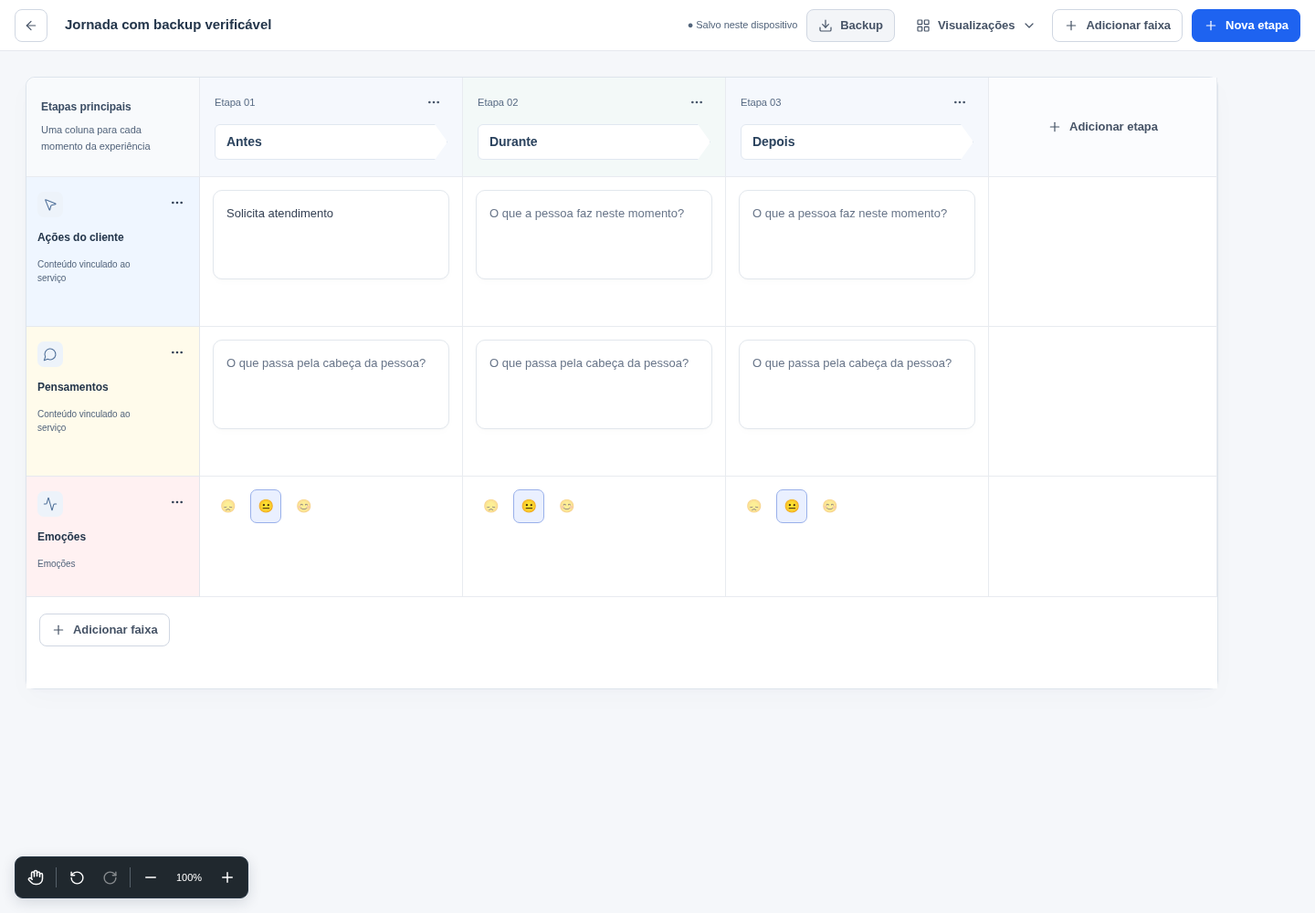
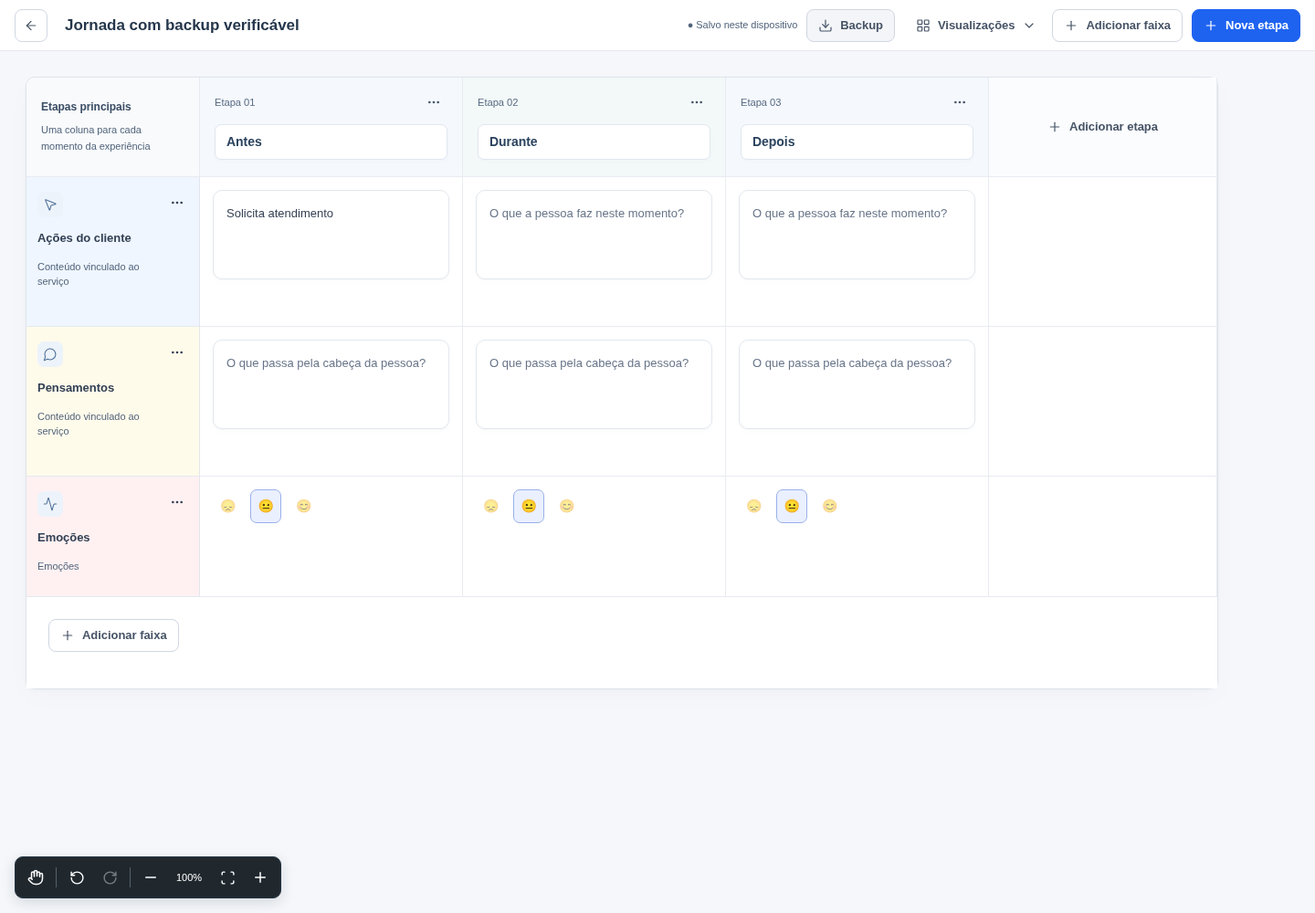
feat: redesenha o início da Jornada e adiciona ajustar à tela

diff --git a/src/views/JourneyCanvasFree.tsx b/src/views/JourneyCanvasFree.tsx
@@ -10,7 +10,7 @@ import { journeyContextItems } from '../services/journey-map-studio';
 import { cardsInCell, addCellCard, editCellCard, removeCellCard, moveJourneyCard, duplicateCellCard, formatCardText, setCellCards } from '../domain/journey-card-operations';
 import {
   ArrowLeft, ArrowRight, Check, ChevronDown, Download, GripVertical, LayoutGrid,
-  Hand, Minus, Plus, RotateCcw,
+  Hand, Minus, Plus, RotateCcw, Scan, Pencil,
   Trash2, X, Type, Image as ImageIcon, ListTree, Shapes, ListChecks,
   SeparatorHorizontal, Activity, Link2, MousePointer2, MessageCircle,
   Waypoints, Target, CircleAlert, Copy, Bold, Italic, List, ArrowUp, ArrowDown, MoreHorizontal,
@@ -227,15 +227,35 @@ export function JourneyCanvasFree({ studio, onMatrix, onCaptureContext, onBluepr
     setShowNewStage(false); setInlineStageTitle(''); setSelectedStageId(null);
     requestAnimationFrame(() => scrollRef.current?.scrollTo({ left: 0, top: 0, behavior: 'auto' }));
   };
-  const dismissIntro = () => setGraph(current => updateJourneyLayout(current, journey.id, layout => ({ ...layout, introDismissed: true })), 'Journey: continuar em branco');
+  const dismissIntro = () => {
+    setGraph(current => updateJourneyLayout(current, journey.id, layout => ({ ...layout, introDismissed: true })), 'Journey: começar pela primeira etapa');
+    openNewStage();
+  };
   const activeStages = visibleStages.length ? visibleStages : orderedStages;
-  const gridColumns = ['var(--journey-rail, 190px)', ...activeStages.map(() => `${columnWidth}px`), '250px'].join(' ');
+  const isEmptyMap = !activeStages.length && !lanes.length;
+  const showWelcome = !showNewStage && (isEmptyMap || showIntro);
+  const showMap = !showWelcome || activeStages.length > 0 || lanes.length > 0;
+  const gridColumns = ['var(--journey-rail, 190px)', ...activeStages.map(() => `${columnWidth}px`), activeStages.length ? '250px' : 'minmax(280px, 1fr)'].join(' ');
+  const fitToScreen = () => {
+    const viewport = scrollRef.current;
+    const map = viewport?.querySelector<HTMLElement>('.bo-h1706-map');
+    if (!viewport || !map) return;
+    const padding = getComputedStyle(viewport);
+    const width = viewport.clientWidth - parseFloat(padding.paddingLeft) - parseFloat(padding.paddingRight);
+    const height = viewport.clientHeight - parseFloat(padding.paddingTop) - parseFloat(padding.paddingBottom);
+    const scale = Math.max(5, Math.min(100, Math.floor(Math.min(width / map.offsetWidth, height / map.offsetHeight) * 100)));
+    setZoom(scale);
+    requestAnimationFrame(() => viewport.scrollTo({ left: 0, top: 0, behavior: 'auto' }));
+  };
   const activeStageIndex = selectedStage ? journey.stageIds.indexOf(selectedStage.id) : -1;
   const dismissMenus = () => setShowViews(false);
   const openNewStage = () => {
     setShowNewStage(true);
     setSelectedStageId(null);
-    requestAnimationFrame(() => scrollRef.current?.scrollTo({ left: scrollRef.current.scrollWidth, behavior: 'smooth' }));
+    requestAnimationFrame(() => {
+      scrollRef.current?.scrollTo({ left: scrollRef.current.scrollWidth, behavior: 'auto' });
+      scrollRef.current?.querySelector<HTMLInputElement>('#bo-journey-stage-title')?.focus({ preventScroll: true });
+    });
   };
   const createInlineStage = () => {
     if (!inlineStageTitle.trim()) return;
@@ -282,12 +302,12 @@ export function JourneyCanvasFree({ studio, onMatrix, onCaptureContext, onBluepr
       if (event.code === 'Space') { event.preventDefault(); setSpaceHeld(true); }
       if (key === 'h') { event.preventDefault(); setHandMode(true); }
       if (key === 'v' || key === 'escape') { setHandMode(false); setSpaceHeld(false); }
-      if (key === '+' || key === '=' || key === '-') { event.preventDefault(); event.stopPropagation(); setZoom(value => Math.max(60, Math.min(150, value + (key === '-' ? -10 : 10)))); }
+      if (key === '+' || key === '=' || key === '-') { event.preventDefault(); event.stopPropagation(); setZoom(value => Math.max(5, Math.min(150, value + (key === '-' ? -10 : 10)))); }
     }
   }} className="bo-h1705-journey is-expanded bo-focused-journey" data-journey-canvas="H17.0.8" data-journey-free-map="1">
     <header className="bo-h1705-topbar">
       <button type="button" className="bo-h1705-back bo-button bo-button--secondary bo-button--icon" onClick={onBack ?? closeJourney} title={onBack ? 'Todas as Jornadas' : 'Voltar ao serviço'} aria-label={onBack ? 'Todas as Jornadas' : 'Voltar ao serviço'}><ArrowLeft size={18}/><span>{onBack ? 'Jornadas' : 'Serviço'}</span></button>
-      <div className="bo-h1705-heading"><input aria-label="Nome da Jornada" value={journeyName} onChange={event => setJourneyName(event.target.value)} onBlur={saveJourneyName} onKeyDown={event => { if (event.key === 'Enter') event.currentTarget.blur(); if (event.key === 'Escape') { cancelNameEdit.current = true; event.currentTarget.blur(); } }}/></div>
+      <div className="bo-h1705-heading"><Pencil size={14} className="bo-journey-title-pencil" aria-hidden="true"/><input aria-label="Nome da Jornada" value={journeyName} onChange={event => setJourneyName(event.target.value)} onBlur={saveJourneyName} onKeyDown={event => { if (event.key === 'Enter') event.currentTarget.blur(); if (event.key === 'Escape') { cancelNameEdit.current = true; event.currentTarget.blur(); } }}/></div>
       <span className="bo-h1705-saving" aria-live="polite" title="As alterações ficam neste navegador. Exporte um backup para guardar outra cópia.">{saveStatus === 'saved' ? '● Salvo neste dispositivo' : saveStatus === 'saving' ? '◌ Salvando…' : '⚠ Erro ao salvar'}</span>
       <button type="button" className="bo-journey-backup bo-button bo-button--secondary" onClick={handleExport} aria-label="Baixar backup do projeto" title="Baixar backup com todas as Jornadas, Blueprints e quadros deste projeto"><Download size={16}/><span>Backup</span></button>
     <nav className="bo-h1705-menubar" aria-label="Ferramentas da Jornada">
@@ -323,8 +343,8 @@ export function JourneyCanvasFree({ studio, onMatrix, onCaptureContext, onBluepr
         onPointerUp={event => { if (panStart.current) { panStart.current = null; event.currentTarget.releasePointerCapture(event.pointerId); } }}
         onPointerCancel={() => { panStart.current = null; }}
         onClickCapture={event => { if (handMode || spaceHeld) { event.preventDefault(); event.stopPropagation(); } }}
-        onClick={() => { if (showViews) dismissMenus(); }} aria-label="Mapa horizontal da Jornada" data-intro-only={showIntro && !activeStages.length && !lanes.length && !showNewStage}>
-        {(!showIntro || activeStages.length > 0 || lanes.length > 0 || showNewStage) && <div className="bo-h1706-map" style={{ zoom: zoom / 100, gridTemplateColumns: gridColumns }} data-configurable-lanes="1">
+        onClick={() => { if (showViews) dismissMenus(); }} aria-label="Mapa horizontal da Jornada" data-intro-only={showWelcome && isEmptyMap}>
+        {showMap && <div className={`bo-h1706-map${isEmptyMap ? ' is-first-stage' : ''}`} style={{ zoom: zoom / 100, gridTemplateColumns: gridColumns }} data-configurable-lanes="1">
           <div className="bo-h1706-corner"><b>Etapas principais</b><small>Uma coluna para cada momento da experiência</small></div>
           {activeStages.map((stage, index) => <div key={stage.id} className={`bo-h1706-stage${stageMenuId === stage.id ? ' is-menu-open' : ''}`} data-journey-stage-id={stage.id} onDragOver={(event) => event.preventDefault()} onDrop={(event) => handleStageDrop(event, stage.id)}>
             <div className="bo-h1706-stage-tools"><small>Etapa {String(index + 1).padStart(2, '0')}</small><button className="bo-simple-stage-grip" draggable onDragStart={(event) => handleStageDragStart(event, stage.id)} title="Arrastar etapa" aria-label={`Arrastar ${stage.title}`}><GripVertical size={14}/></button><button type="button" aria-label={`Ações da etapa ${stage.title}`} title="Ações da etapa" aria-expanded={stageMenuId === stage.id} onClick={() => { setStageMenuId(stageMenuId === stage.id ? null : stage.id); setLaneMenuId(null); }}><MoreHorizontal size={16} aria-hidden="true"/></button></div>
@@ -336,7 +356,7 @@ export function JourneyCanvasFree({ studio, onMatrix, onCaptureContext, onBluepr
               <button type="button" className="bo-j2-danger" onClick={() => { setStageMenuId(null); removeStageSafely(stage.id); }} aria-label={`Remover ${stage.title}`}>Excluir etapa…</button>
             </div>}
           </div>)}
-          <div className="bo-h1706-new-stage">{showNewStage || !orderedStages.length ? <div className="bo-h1705-stage-draft"><label>Nova etapa</label><input autoFocus value={inlineStageTitle} onChange={(event) => setInlineStageTitle(event.target.value)} onKeyDown={(event) => { if (event.key === 'Enter') createInlineStage(); if (event.key === 'Escape') setShowNewStage(false); }} placeholder="Nome da etapa"/><button className="bo-h1705-primary bo-button bo-button--primary" disabled={!inlineStageTitle.trim()} onClick={createInlineStage}>Criar etapa</button></div> : <button type="button" className="bo-button bo-button--ghost" onClick={openNewStage}><Plus size={17}/> Adicionar etapa</button>}</div>
+          <div className="bo-h1706-new-stage">{showNewStage || !orderedStages.length ? <div className="bo-h1705-stage-draft"><label htmlFor="bo-journey-stage-title">{activeStages.length ? 'Nova etapa' : 'Sua primeira etapa'}</label><small>Um momento da experiência do cliente.</small><input id="bo-journey-stage-title" autoFocus value={inlineStageTitle} onChange={(event) => setInlineStageTitle(event.target.value)} onKeyDown={(event) => { if (event.key === 'Enter') createInlineStage(); if (event.key === 'Escape') setShowNewStage(false); }} placeholder="Nome da etapa" aria-describedby="bo-journey-stage-example"/><small id="bo-journey-stage-example">Ex.: Descobrir o serviço. Pressione Enter para criar.</small><button type="button" className="bo-h1705-primary bo-button bo-button--primary" disabled={!inlineStageTitle.trim()} onClick={createInlineStage}>Criar etapa</button></div> : <button type="button" className="bo-button bo-button--ghost" onClick={openNewStage}><Plus size={17}/> Adicionar etapa</button>}</div>
           {lanes.filter((lane) => !lane.hidden).map((lane) => <div key={lane.id} data-lane-id={lane.id} className={`bo-h1706-lane-row${selectedLaneId === lane.id ? ' is-selected' : ''}`} style={{ gridColumn: `1 / span ${activeStages.length + 2}`, gridTemplateColumns: 'subgrid', '--lane-height': `${lane.height ?? (lane.type === 'divider' ? 64 : 164)}px`, '--lane-color': palette[lane.tone ?? 'neutral']?.color ?? palette.neutral.color } as CSSProperties}>
             <div className="bo-h1706-lane-name">
               {renderLaneIcon(lane)}
@@ -363,14 +383,37 @@ export function JourneyCanvasFree({ studio, onMatrix, onCaptureContext, onBluepr
             <div className="bo-h1706-cell bo-h1706-empty"/>
           </div>)}
           <div className="bo-h1706-add-lane" style={{ gridColumn: `1 / span ${activeStages.length + 2}` }}>
-            {!lanes.length && !showIntro && <div className="bo-j2-empty"><strong>Seu mapa pode ter as faixas que você precisar</strong><p>Comece com texto livre ou traga informações já vinculadas ao serviço.</p><div><button type="button" className="bo-button bo-button--secondary" onClick={() => addLane('text')}>Adicionar texto</button><button type="button" className="bo-button bo-button--secondary" onClick={() => addLane('text', 'customerAction')}>Ações do cliente</button><button type="button" className="bo-button bo-button--secondary" onClick={() => addLane('emotion')}>Emoções</button></div></div>}
+            {!lanes.length && !showWelcome && <section className="bo-j2-empty bo-journey-lane-suggestions" aria-label="Faixas sugeridas">
+              <small>CONTE A EXPERIÊNCIA</small><h2>O que acontece em cada etapa?</h2>
+              <p>Escolha uma faixa para começar. Você pode adicionar outras depois.</p>
+              <div className="bo-journey-lane-choices">
+                <button type="button" aria-label="Ações do cliente" onClick={() => addLane('text', 'customerAction')}><MousePointer2 size={20} aria-hidden="true"/><strong>Ações do cliente</strong><span>O que a pessoa faz ou tenta fazer.</span><Plus size={16} aria-hidden="true"/></button>
+                <button type="button" aria-label="Pensamentos" onClick={() => addLane('text', 'thoughts')}><MessageCircle size={20} aria-hidden="true"/><strong>Pensamentos</strong><span>O que ela pensa ou espera.</span><Plus size={16} aria-hidden="true"/></button>
+                <button type="button" aria-label="Emoções" onClick={() => addLane('emotion')}><Activity size={20} aria-hidden="true"/><strong>Emoções</strong><span>Como ela se sente nesse momento.</span><Plus size={16} aria-hidden="true"/></button>
+              </div>
+            </section>}
             <button type="button" className="bo-h1706-add-button bo-button bo-button--secondary" onClick={event => { laneMenuTrigger.current = event.currentTarget; setShowLaneMenu(!showLaneMenu); setShowViews(false); }} aria-expanded={showLaneMenu}><Plus size={16}/> Adicionar faixa</button>
             {lanes.some(lane => lane.hidden) && <div className="bo-h1706-hidden"><small>Faixas ocultas</small>{lanes.filter(lane => lane.hidden).map(lane => <button type="button" key={lane.id} onClick={() => changeLane(lane.id, { hidden: false })}>Mostrar {lane.label}</button>)}</div>}
           </div>
         </div>}
-        {showIntro && !showNewStage && <section className="bo-journey-welcome" aria-label="Começar a mapear">
-          <div className="bo-journey-preview" aria-hidden="true">{['Antes', 'Durante', 'Depois'].map(label => <div key={label}><strong>{label}</strong><i/><i/></div>)}<span className="bo-journey-preview-label">Exemplo de estrutura · tudo pode ser editado</span></div>
-          <div className="bo-journey-welcome-copy"><small>UM BOM COMEÇO</small><h2>Dê forma à experiência.</h2><p>Cada etapa é um momento da história. Nas faixas, reúna o que a pessoa faz, pensa e sente.</p><p>{orderedStages.length ? 'Adicione as faixas essenciais. Suas etapas e os conteúdos existentes são mantidos.' : 'Comece com Antes, Durante e Depois, e três faixas para entender a experiência.'}</p><div className="bo-journey-welcome-actions"><button type="button" onClick={startWithStructure}>{orderedStages.length ? 'Adicionar faixas essenciais' : 'Usar estrutura inicial'}<ArrowRight size={14} aria-hidden="true"/></button><button type="button" onClick={dismissIntro}>Continuar em branco</button></div></div>
+        {showWelcome && <section className="bo-journey-welcome bo-journey-start" aria-label="Começar a mapear">
+          <div className="bo-journey-start-heading">
+            <span className="bo-journey-start-kicker"><Waypoints size={16} aria-hidden="true"/> JORNADA DO CLIENTE</span>
+            <h2>{activeStages.length ? 'Dê forma à experiência.' : 'Comece pela primeira etapa da experiência'}</h2>
+            <p>{activeStages.length ? 'Suas etapas estão prontas. Adicione as faixas para reunir o que a pessoa faz, pensa e sente.' : 'Uma etapa é um momento da história. Depois, reúna o que a pessoa faz, pensa e sente em cada um deles.'}</p>
+            <div className="bo-journey-start-actions">
+              <button type="button" className="bo-button bo-button--primary" onClick={dismissIntro}><Plus size={16}/>{activeStages.length ? 'Adicionar etapa' : 'Criar primeira etapa'}</button>
+              <button type="button" className="bo-button bo-button--secondary" onClick={startWithStructure}><LayoutGrid size={16}/>{activeStages.length ? 'Adicionar faixas essenciais' : 'Usar estrutura inicial'}</button>
+            </div>
+          </div>
+          <div className="bo-journey-start-preview" role="img" aria-label="Prévia de estrutura com Antes, Durante e Depois, e faixas de ações do cliente, pensamentos e emoções. O conteúdo será preenchido por você.">
+            <div className="bo-journey-start-preview-grid" aria-hidden="true">
+              <div className="bo-journey-start-preview-corner">Etapas da experiência</div>
+              {['Antes', 'Durante', 'Depois'].map((label, index) => <div className="bo-journey-start-preview-stage" key={label}><small>ETAPA 0{index + 1}</small><strong>{label}<ArrowRight size={14}/></strong></div>)}
+              {[{ label: 'Ações do cliente', icon: MousePointer2, tone: 'blue' }, { label: 'Pensamentos', icon: MessageCircle, tone: 'amber' }, { label: 'Emoções', icon: Activity, tone: 'rose' }].map(({ label, icon: Icon, tone }) => <div className={`bo-journey-start-preview-row is-${tone}`} key={label}><div><Icon size={17}/><span>{label}</span></div>{[0, 1, 2].map(index => <div key={index}><span className="bo-journey-preview-placeholder"/></div>)}</div>)}
+            </div>
+          </div>
+          <p className="bo-journey-start-caption"><LayoutGrid size={14} aria-hidden="true"/>Prévia da estrutura inicial · etapas e faixas editáveis · você preenche o conteúdo</p>
         </section>}
       </main>
       {selectedLane && <aside className="bo-h1705-inspector bo-j2-lane-inspector" aria-label={`Propriedades da faixa ${selectedLane.label}`}>
@@ -409,8 +452,9 @@ export function JourneyCanvasFree({ studio, onMatrix, onCaptureContext, onBluepr
         <button type="button" onClick={undo} disabled={!canUndo} title="Desfazer · Ctrl/Cmd Z" aria-label="Desfazer"><RotateCcw size={17}/></button>
         <button type="button" onClick={redo} disabled={!canRedo} title="Refazer · Ctrl/Cmd Shift Z" aria-label="Refazer"><RotateCcw size={17} style={{ transform: 'scaleX(-1)' }}/></button>
         <span className="bo-editor-dock-separator" aria-hidden="true"/>
-        <button type="button" title="Diminuir zoom" aria-label="Diminuir zoom" disabled={zoom <= 60} onClick={() => setZoom(value => Math.max(60, value - 10))}><Minus size={18}/></button>
+        <button type="button" title="Diminuir zoom" aria-label="Diminuir zoom" disabled={zoom <= 5} onClick={() => setZoom(value => Math.max(5, value - 10))}><Minus size={18}/></button>
         <button type="button" className="bo-editor-zoom-value" title="Restaurar zoom para 100%" aria-label={`Zoom ${zoom}%. Restaurar para 100%`} onClick={() => setZoom(100)}>{zoom}%</button>
+        <button type="button" title="Ajustar à tela" aria-label="Ajustar à tela" disabled={!showMap} onClick={fitToScreen}><Scan size={17}/></button>
         <button type="button" title="Aumentar zoom" aria-label="Aumentar zoom" disabled={zoom >= 150} onClick={() => setZoom(value => Math.min(150, value + 10))}><Plus size={18}/></button>
       </div>
     </footer>

diff --git a/src/runtime/entry-journey-refresh.css b/src/runtime/entry-journey-refresh.css
@@ -61,23 +61,87 @@ body.bo1179-auth-visible .bo-auth-local{margin-top:18px}
 .bo-focused-journey .bo-h1709-add-card[data-empty="true"]:hover{border-color:#8ba9ce!important;background:#f5f8fc!important}
 .bo-focused-journey .bo-h1706-new-stage{background:#fbfcfe;display:flex;align-items:center;justify-content:center}
 .bo-focused-journey .bo-h1706-new-stage>button{padding:12px;color:#526b8c}
-.bo-journey-welcome{width:min(100%,1000px);box-sizing:border-box;margin:42px auto 12px;display:grid;grid-template-columns:minmax(240px,340px) minmax(0,1fr);align-items:center;gap:38px;color:#2c415c}
-.bo-journey-welcome-copy>small{font-size:10px;font-weight:650;letter-spacing:.09em;color:#4f7099}
-.bo-journey-welcome h2{font-size:25px;line-height:1.25;letter-spacing:-.025em;font-weight:600;margin:8px 0 12px}
-.bo-journey-welcome p{max-width:490px;font-size:13px;line-height:1.8;color:#5b6d84;margin:0 0 14px}
-.bo-journey-welcome-actions{display:flex;align-items:center;flex-wrap:wrap;gap:8px;margin-top:20px}
-.bo-journey-welcome-actions>button{display:inline-flex;align-items:center;gap:8px;min-height:38px;padding:9px 13px;border-radius:7px;border:1px solid #ced8e4;background:#fff;color:#45617f;font-size:12px}
-.bo-journey-welcome-actions>button:first-child{background:#315ee8;border-color:#315ee8;color:#fff;box-shadow:0 2px 4px #214bc413}
-.bo-journey-preview{position:relative;display:grid;grid-template-columns:repeat(3,1fr);gap:9px;padding:28px 18px 24px;background:#eaf0f7;border:1px solid #e0e7f0;border-radius:13px;transform:rotate(-2deg);box-shadow:0 10px 28px #354f6c0b}
-.bo-journey-preview>div{display:grid;gap:9px;align-content:start}
-.bo-journey-preview strong{font-size:10px;font-weight:600;padding:9px 8px;color:#4b6381;background:#fff;border-radius:4px;clip-path:polygon(0 0,88% 0,100% 50%,88% 100%,0 100%)}
-.bo-journey-preview i{display:block;height:51px;border-radius:5px;background:#d4e2f5;border:1px solid #c7d8ed;box-shadow:0 2px 3px #46628408}
-.bo-journey-preview i:nth-child(3){height:37px;background:#f5dfbd;border-color:#edd2aa}
-.bo-journey-preview>div:nth-child(2){transform:translateY(8px)}
-.bo-journey-preview>div:nth-child(3) i{background:#cfe6df;border-color:#bfddd3}
-.bo-journey-preview-label{grid-column:1/-1;font-size:10px;color:#526984;letter-spacing:.03em;margin-top:8px}
-@media(max-width:760px){.bo-focused-journey .bo-h1705-scroll{padding:16px 14px 100px}.bo-journey-welcome{grid-template-columns:1fr;gap:24px;margin-top:32px;max-width:520px}.bo-journey-preview{width:260px;max-width:100%;margin:0 auto}.bo-journey-welcome h2{font-size:22px}}
+/* A visible starting point, including previously dismissed empty maps. */
+.bo-focused-journey .bo-h1705-scroll[data-intro-only="true"]{display:block}
+.bo-focused-journey .bo-h1705-heading{position:relative}
+.bo-focused-journey .bo-h1705-heading>input{font-size:17px;padding-right:26px}
+.bo-journey-title-pencil{position:absolute;right:6px;top:50%;transform:translateY(-50%);color:#64748b;opacity:0;pointer-events:none}
+.bo-h1705-heading:hover .bo-journey-title-pencil,.bo-h1705-heading:focus-within .bo-journey-title-pencil{opacity:1}
+.bo-journey-start{width:min(100%,1040px);margin:28px auto 0;padding:36px;border:1px solid #dce4ee;border-radius:16px;background:#fff;color:#24364d;box-shadow:0 8px 32px #1b355008}
+.bo-journey-start-kicker{display:flex;align-items:center;gap:8px;font-size:11px;font-weight:700;letter-spacing:.08em;color:#174fc0}
+.bo-journey-start h2{font-size:28px;line-height:1.25;font-weight:650;letter-spacing:-.025em;max-width:640px;margin:14px 0 12px}
+.bo-journey-start-heading>p{font-size:14px;line-height:1.7;color:#52647b;max-width:680px;margin:0}
+.bo-journey-start-actions{display:flex;flex-wrap:wrap;gap:12px;margin:24px 0 30px}
+.bo-journey-start-preview{border:1px solid #dce4ee;border-radius:10px;overflow:hidden;background:#fff}
+.bo-journey-start-preview-grid{display:grid;grid-template-columns:160px repeat(3,minmax(0,1fr))}
+.bo-journey-start-preview-corner{display:flex;align-items:center;padding:16px;background:#f8fafc;color:#475569;font-size:12px;font-weight:600}
+.bo-journey-start-preview-stage{padding:14px 16px;border-left:1px solid #e3e9f1;background:#f5f8ff}
+.bo-journey-start-preview-stage>small{display:block;color:#52647b;font-size:10px;letter-spacing:.06em;margin-bottom:8px}
+.bo-journey-start-preview-stage>strong{display:flex;justify-content:space-between;align-items:center;gap:4px;font-size:13px;font-weight:600;color:#26476d}
+.bo-journey-start-preview-row{display:grid;grid-template-columns:subgrid;grid-column:1/-1}
+.bo-journey-start-preview-row>div{min-height:70px;padding:14px 16px;border-top:1px solid #e3e9f1;border-left:1px solid #e3e9f1;display:flex;align-items:center}
+.bo-journey-start-preview-row>div:first-child{gap:8px;border-left:0;font-size:12px;color:#334155;font-weight:550}
+.bo-journey-start-preview-row.is-blue>div:first-child{background:#eff6ff}
+.bo-journey-start-preview-row.is-amber>div:first-child{background:#fffbeb}
+.bo-journey-start-preview-row.is-rose>div:first-child{background:#fff1f2}
+.bo-journey-start-preview-row svg{flex:none}
+.bo-journey-preview-placeholder{display:block;width:100%;height:36px;border:1px dashed #d2dce8;border-radius:6px;background:#fbfcfe}
+.bo-journey-start-caption{display:flex;align-items:center;gap:7px;font-size:12px;line-height:1.6;color:#52647b;margin:14px 0 0}
+.bo-journey-start-caption svg{flex:none}
+.bo-focused-journey .bo-h1706-map.is-first-stage{width:min(980px,calc(100dvw - 56px))}
+.bo-focused-journey .is-first-stage .bo-h1706-new-stage{height:auto;min-height:220px;padding:24px}
+.bo-focused-journey .bo-h1706-map:has(.bo-h1705-stage-draft)>:is(.bo-h1706-corner,.bo-h1706-stage,.bo-h1706-new-stage){height:auto}
+.bo-focused-journey .bo-h1705-stage-draft{width:min(100%,380px);display:grid;gap:10px;padding:18px;border:1px solid #dce4ee;border-radius:10px;background:#fff;box-shadow:none}
+.bo-focused-journey .bo-h1705-stage-draft label{font-size:14px;font-weight:650;color:#24364d}
+.bo-focused-journey .bo-h1705-stage-draft small{font-size:12px;line-height:1.5;color:#52647b}
+.bo-focused-journey .bo-h1705-stage-draft input{width:100%;min-width:0;min-height:40px;padding:10px;font-size:14px;border:1px solid #cbd5e1;border-radius:7px}
+.bo-focused-journey .bo-h1706-add-lane{padding:24px}
+.bo-journey-lane-suggestions{max-width:900px;padding:0 0 20px}
+.bo-journey-lane-suggestions>small{font-size:10px;letter-spacing:.08em;font-weight:700;color:#174fc0}
+.bo-journey-lane-suggestions>h2{font-size:18px;line-height:1.4;margin:8px 0;color:#24364d;font-weight:650}
+.bo-journey-lane-suggestions>p{font-size:13px;line-height:1.6;color:#52647b;margin:0 0 18px}
+.bo-focused-journey .bo-journey-lane-choices{display:grid;grid-template-columns:repeat(3,minmax(0,1fr));gap:12px}
+.bo-focused-journey .bo-journey-lane-choices>button{display:grid;grid-template-columns:24px 1fr 16px;align-items:center;gap:8px;min-height:100px;text-align:left;padding:16px;border:1px solid #dce4ee;border-radius:10px;background:#fff;color:#334155}
+.bo-focused-journey .bo-journey-lane-choices>button>strong{font-size:13px;font-weight:650}
+.bo-focused-journey .bo-journey-lane-choices>button>span{grid-column:2/4;font-size:12px;line-height:1.5;color:#52647b}
+.bo-focused-journey .bo-journey-lane-choices>button>svg:last-child{grid-column:3;grid-row:1}
+.bo-focused-journey .bo-journey-lane-choices>button:hover{border-color:#a7c3ef;background:#f5f8ff}
+.bo-focused-journey .bo-h1706-stage>input{clip-path:none;font-size:14px;border-radius:7px}
+.bo-focused-journey .bo-h1706-lane-name>input{font-size:13px;color:#334155;font-weight:650}
+.bo-focused-journey .bo-h1706-lane-name>small{font-size:11px}
+.bo-focused-journey .bo-h1705-zoom>button:disabled{opacity:.4;cursor:not-allowed}
+@media(max-width:760px){
+ .bo-focused-journey .bo-h1705-scroll{padding:18px 14px 100px}
+ .bo-journey-start{margin-top:6px;padding:24px}
+ .bo-journey-start h2{font-size:24px}
+ .bo-journey-start-preview-grid{grid-template-columns:120px repeat(3,minmax(0,1fr))}
+ .bo-journey-start-preview-stage,.bo-journey-start-preview-row>div{padding:12px 8px}
+ .bo-journey-start-preview-row>div:first-child{font-size:11px;gap:5px}
+ .bo-focused-journey .bo-journey-lane-choices{grid-template-columns:1fr}
+ .bo-focused-journey .bo-journey-lane-choices>button{min-height:84px}
+}
+@media(max-width:530px){
+ .bo-focused-journey .bo-h1705-heading>input{font-size:14px;padding-right:8px}
+ .bo-journey-title-pencil{display:none}
+ .bo-journey-start{padding:20px 16px;border-radius:12px}
+ .bo-journey-start h2{font-size:23px}
+ .bo-journey-start-heading>p{font-size:13px}
+ .bo-journey-start-actions{gap:8px;margin:20px 0}
+ .bo-journey-start-actions>button{width:100%;min-height:42px!important}
+ .bo-journey-start-preview-grid{grid-template-columns:88px repeat(3,minmax(0,1fr))}
+ .bo-journey-start-preview-corner{padding:8px;font-size:10px}
+ .bo-journey-start-preview-stage>small{font-size:9px;letter-spacing:0}
+ .bo-journey-start-preview-stage>strong{font-size:11px}
+ .bo-journey-start-preview-stage svg{display:none}
+ .bo-journey-start-preview-row>div{min-height:52px;padding:8px 6px}
+ .bo-journey-start-preview-row>div:first-child{font-size:10px;flex-direction:column;align-items:flex-start;gap:4px}
+ .bo-journey-preview-placeholder{height:28px}
+ .bo-journey-start-caption{font-size:11px;align-items:flex-start}
+ .bo-focused-journey .bo-h1706-map.is-first-stage{width:calc(100dvw - 28px);grid-template-columns:minmax(0,1fr)!important}
+ .bo-focused-journey .is-first-stage>.bo-h1706-corner{display:none}
+ .bo-focused-journey .is-first-stage>.bo-h1706-new-stage{min-height:0;padding:20px}
+ .bo-focused-journey .is-first-stage>.bo-h1706-add-lane{grid-column:1/-1!important;padding:20px}
+ .bo-focused-journey .bo-h1705-zoom{gap:1px;padding:4px}
+ .bo-focused-journey .bo-h1705-zoom>button{width:30px;min-width:30px;height:34px}
+}
 @media(prefers-reduced-motion:reduce){.bo-focused-journey .bo-h1709-add-card{transition:none}}
-
-.bo-focused-journey .bo-h1705-scroll[data-intro-only="true"]{display:grid;align-content:center}
-.bo-focused-journey .bo-h1705-scroll[data-intro-only="true"]>.bo-journey-welcome{margin-top:0;margin-bottom:0}

diff --git a/scripts/entry-journey-browser.py b/scripts/entry-journey-browser.py
@@ -15,7 +15,8 @@ def journey(page):
 def audit(page,selector,name):
  if not os.environ.get('AXE_PATH'):return
  # Audit the settled surface; entry/card fades temporarily blend text colors.
- page.evaluate("async selector => {const root=document.querySelector(selector);await Promise.allSettled(root.getAnimations({subtree:true}).filter(a=>Number.isFinite(a.effect.getComputedTiming().endTime)).map(a=>a.finished));}",selector)
+ page.emulate_media(reduced_motion='reduce')
+ page.evaluate("async selector => {const root=document.querySelector(selector);await Promise.race([Promise.allSettled(root.getAnimations({subtree:true}).filter(a=>Number.isFinite(a.effect.getComputedTiming().endTime)).map(a=>a.finished)),new Promise(resolve=>setTimeout(resolve,1000))]);}",selector)
  page.add_script_tag(path=os.environ['AXE_PATH'])
  data=page.evaluate("async selector => (await axe.run({include:[[selector]]},{runOnly:{type:'tag',values:['wcag2a','wcag2aa','wcag21aa']}})).violations.map(v=>({id:v.id,nodes:v.nodes.map(n=>({target:n.target,summary:n.failureSummary}))}))",selector)
  (OUT/(name+'-accessibility.json')).write_text(json.dumps(data,ensure_ascii=False,indent=2))
@@ -94,11 +95,63 @@ def small(page):
   page.locator('.bo-h724-journey-pane').get_by_role('button',name='Criar Jornada',exact=True).click();page.get_by_role('button',name=re.compile(r'^Em branco')).click()
   welcome=page.get_by_role('region',name='Começar a mapear');expect(welcome).to_be_visible()
   check('The Journey introduction fits a phone',welcome.bounding_box()['x']>=0 and welcome.bounding_box()['x']+welcome.bounding_box()['width']<=391)
-  page.get_by_role('button',name='Continuar em branco',exact=True).click()
+  page.get_by_role('button',name='Criar primeira etapa',exact=True).click()
   check('Continuing in blank mode creates no stages or lanes',not journey(page)['stageIds'] and not journey(page).get('mapLayout',{}).get('lanes'))
   expect(page.get_by_placeholder('Nome da etapa',exact=True)).to_be_visible()
   page.reload(wait_until='networkidle')
   check('Choosing blank mode remains saved after reload',journey(page)['mapLayout']['introDismissed'])
+
+def starting_map(page):
+ page.emulate_media(reduced_motion='reduce')
+ page.goto(URL,wait_until='networkidle')
+ page.get_by_role('button',name='Abrir workspace local sem conta',exact=True).click()
+ page.get_by_role('button',name='Novo projeto',exact=True).click()
+ page.get_by_label('Nome do projeto',exact=True).fill('Novo início da Jornada')
+ page.get_by_label('Serviço principal',exact=True).fill('Atendimento ao cliente')
+ page.get_by_role('button',name='Criar projeto',exact=True).click()
+ page.locator('.bo-h724-journey-pane').get_by_role('button',name='Criar Jornada',exact=True).click()
+ page.get_by_role('button',name=re.compile(r'^Em branco')).click()
+ width=page.viewport_size['width']
+ welcome=page.get_by_role('region',name='Começar a mapear')
+ expect(welcome).to_be_visible()
+ check(f'{width}: início oferece duas decisões e prévia sem preencher dados',welcome.get_by_role('button').count()==2 and not journey(page)['stageIds'] and not journey(page).get('mapLayout',{}).get('lanes'))
+ check(f'{width}: início cabe na largura disponível',welcome.bounding_box()['x']>=0 and welcome.bounding_box()['x']+welcome.bounding_box()['width']<=width)
+ check(f'{width}: ajustar à tela aguarda um mapa real',page.get_by_role('button',name='Ajustar à tela',exact=True).is_disabled())
+ audit(page,'.bo-focused-journey',f'novo-inicio-{width}')
+ page.screenshot(path=str(OUT/f'novo-inicio-{width}.png'),animations='disabled')
+ page.get_by_role('button',name='Criar primeira etapa',exact=True).click()
+ field=page.get_by_placeholder('Nome da etapa',exact=True)
+ expect(field).to_be_focused()
+ check(f'{width}: primeira etapa começa com foco e impede título vazio',page.get_by_role('button',name='Criar etapa',exact=True).is_disabled())
+ page.keyboard.press('Escape')
+ expect(welcome).to_be_visible()
+ page.get_by_role('button',name='Todas as Jornadas',exact=True).click()
+ page.get_by_role('button',name='Abrir Jornada',exact=True).click()
+ expect(welcome).to_be_visible()
+ check(f'{width}: mapa vazio dispensado continua oferecendo um ponto de partida',journey(page)['mapLayout']['introDismissed'] and not journey(page)['stageIds'])
+ page.get_by_role('button',name='Criar primeira etapa',exact=True).click()
+ field.fill('Descobrir o serviço');field.press('Enter')
+ expect(page.get_by_role('textbox',name='Nome da etapa 1',exact=True)).to_have_value('Descobrir o serviço')
+ suggestions=page.get_by_role('region',name='Faixas sugeridas')
+ expect(suggestions).to_be_visible()
+ check(f'{width}: faixas sugeridas têm nomes e explicações',all(suggestions.get_by_role('button',name=name,exact=True).is_visible() for name in ['Ações do cliente','Pensamentos','Emoções']))
+ audit(page,'.bo-focused-journey',f'primeira-etapa-{width}')
+ page.screenshot(path=str(OUT/f'primeira-etapa-{width}.png'),animations='disabled')
+ suggestions.get_by_role('button',name='Pensamentos',exact=True).click()
+ lane=journey(page)['mapLayout']['lanes'][0]
+ check(f'{width}: sugestão cria faixa com vínculo correto',lane['binding']=='thoughts' and lane['label']=='Pensamentos')
+ page.get_by_label('Pensamentos em Descobrir o serviço',exact=True).fill('Será que resolve meu problema?')
+ first_stage=journey(page)['stageIds'][0]
+ for label in ['Solicitar atendimento','Receber ajuda','Avaliar solução','Retornar']:
+  page.locator('.bo-h1705-top-actions').get_by_role('button',name='Nova etapa',exact=True).click()
+  field.fill(label);field.press('Enter')
+ before=json.dumps({'journey':journey(page),'stages':graph(page)['stages']},sort_keys=True)
+ page.get_by_role('button',name='Ajustar à tela',exact=True).click()
+ page.wait_for_function("""() => {const v=document.querySelector('.bo-h1705-scroll'),m=v.querySelector('.bo-h1706-map'),r=m.getBoundingClientRect(),b=v.getBoundingClientRect(),s=getComputedStyle(v);return r.left>=b.left && r.top>=b.top && r.right<=b.right-parseFloat(s.paddingRight)+1 && r.bottom<=b.bottom-parseFloat(s.paddingBottom)+1;}""")
+ check(f'{width}: ajustar à tela enquadra as duas dimensões sem alterar conteúdo',before==json.dumps({'journey':journey(page),'stages':graph(page)['stages']},sort_keys=True))
+ page.get_by_role('button',name=re.compile(r'^Zoom .*Restaurar')).click()
+ expect(page.get_by_role('button',name='Zoom 100%. Restaurar para 100%',exact=True)).to_be_visible()
+ check(f'{width}: conteúdo permanece editável depois de restaurar zoom',graph(page)['stages'][first_stage]['thoughts']=='Será que resolve meu problema?')
 
 class Quiet(SimpleHTTPRequestHandler):
  def log_message(self,*args):pass
@@ -108,7 +161,7 @@ if not URL:
 try:
  with sync_playwright() as p:
   browser=p.chromium.launch(headless=True,executable_path=os.environ.get('CHROMIUM_PATH') or shutil.which('chromium'),args=['--no-sandbox','--disable-dev-shm-usage'])
-  for name,flow,w,h in [('desktop',entry,1440,1000),('custom',custom,1440,1000),('tablet',small,820,1180),('mobile',small,390,844)]:
+  for name,flow,w,h in [('desktop',entry,1440,1000),('custom',custom,1440,1000),('tablet',small,820,1180),('mobile',small,390,844),('inicio-desktop',starting_map,1440,1000),('inicio-tablet',starting_map,834,1000),('inicio-celular',starting_map,390,844)]:
    context=browser.new_context(viewport={'width':w,'height':h});page=context.new_page();page.set_default_timeout(12000);errors=[];page.on('pageerror',lambda e:errors.append(str(e)))
    try:flow(page);check(name+' has no JavaScript errors',not errors)
    except Exception:

diff --git a/scripts/map-actions-browser.py b/scripts/map-actions-browser.py
@@ -51,7 +51,7 @@ def flow(page, width):
     expect(cards).to_have_count(2)
     # Long names must not push actions outside the footer.
     cards.first.get_by_role('button', name='Abrir Jornada', exact=True).click()
-    welcome = page.get_by_role('button', name='Continuar em branco', exact=True)
+    welcome = page.get_by_role('button', name='Criar primeira etapa', exact=True)
     if welcome.is_visible():
         welcome.click()
     page.get_by_label('Nome da Jornada', exact=True).fill('Jornada de atendimento com um nome suficientemente longo para validar a organização do card')
@@ -83,7 +83,7 @@ def flow(page, width):
     expect(pane).to_be_visible()
     page.get_by_role('button', name='Criar Jornada', exact=True).click()
     page.get_by_role('button', name=re.compile('^Em branco')).click()
-    page.get_by_role('button', name='Continuar em branco', exact=True).click()
+    page.get_by_role('button', name='Criar primeira etapa', exact=True).click()
     page.get_by_role('button', name='Todas as Jornadas', exact=True).click()
     expect(cards).to_have_count(3)
     check(f'{width}: ações dos cards ficam dentro de seus rodapés', pane.locator('.bo-map-card-actions').evaluate_all("""footers=>footers.every(f=>{const r=f.getBoundingClientRect();return [...f.querySelectorAll('button')].every(b=>{const x=b.getBoundingClientRect();return x.left>=r.left && x.right<=r.right+1 && x.top>=r.top && x.bottom<=r.bottom+1})})"""))

diff --git a/CHANGELOG.md b/CHANGELOG.md
@@ -1,5 +1,14 @@
 # Histórico de mudanças
 
+## Início guiado e navegação da Jornada — 21/10/2026
+
+- Redesenha o estado vazio com uma prévia ampla e duas ações: criar a primeira etapa ou aplicar a estrutura inicial opcional.
+- Recupera o ponto de partida de mapas vazios cuja introdução já havia sido dispensada.
+- Oferece faixas de ações, pensamentos e emoções com ícones, descrições e vínculos reais ao serviço.
+- Melhora a hierarquia das etapas e faixas, o foco do formulário e a criação por Enter.
+- Acrescenta Ajustar à tela ao controle de zoom, preservando o conteúdo e a opção de restaurar 100%.
+- Amplia a regressão de entrada para validar os dois caminhos e o enquadramento em computador, tablet e celular.
+
 ## Botões e ações dos mapas — 21/10/2026
 
 - Padroniza cores, altura, bordas, ícones e estados de foco, seleção e indisponibilidade nas bibliotecas e nos cabeçalhos de Jornada e Blueprint.
